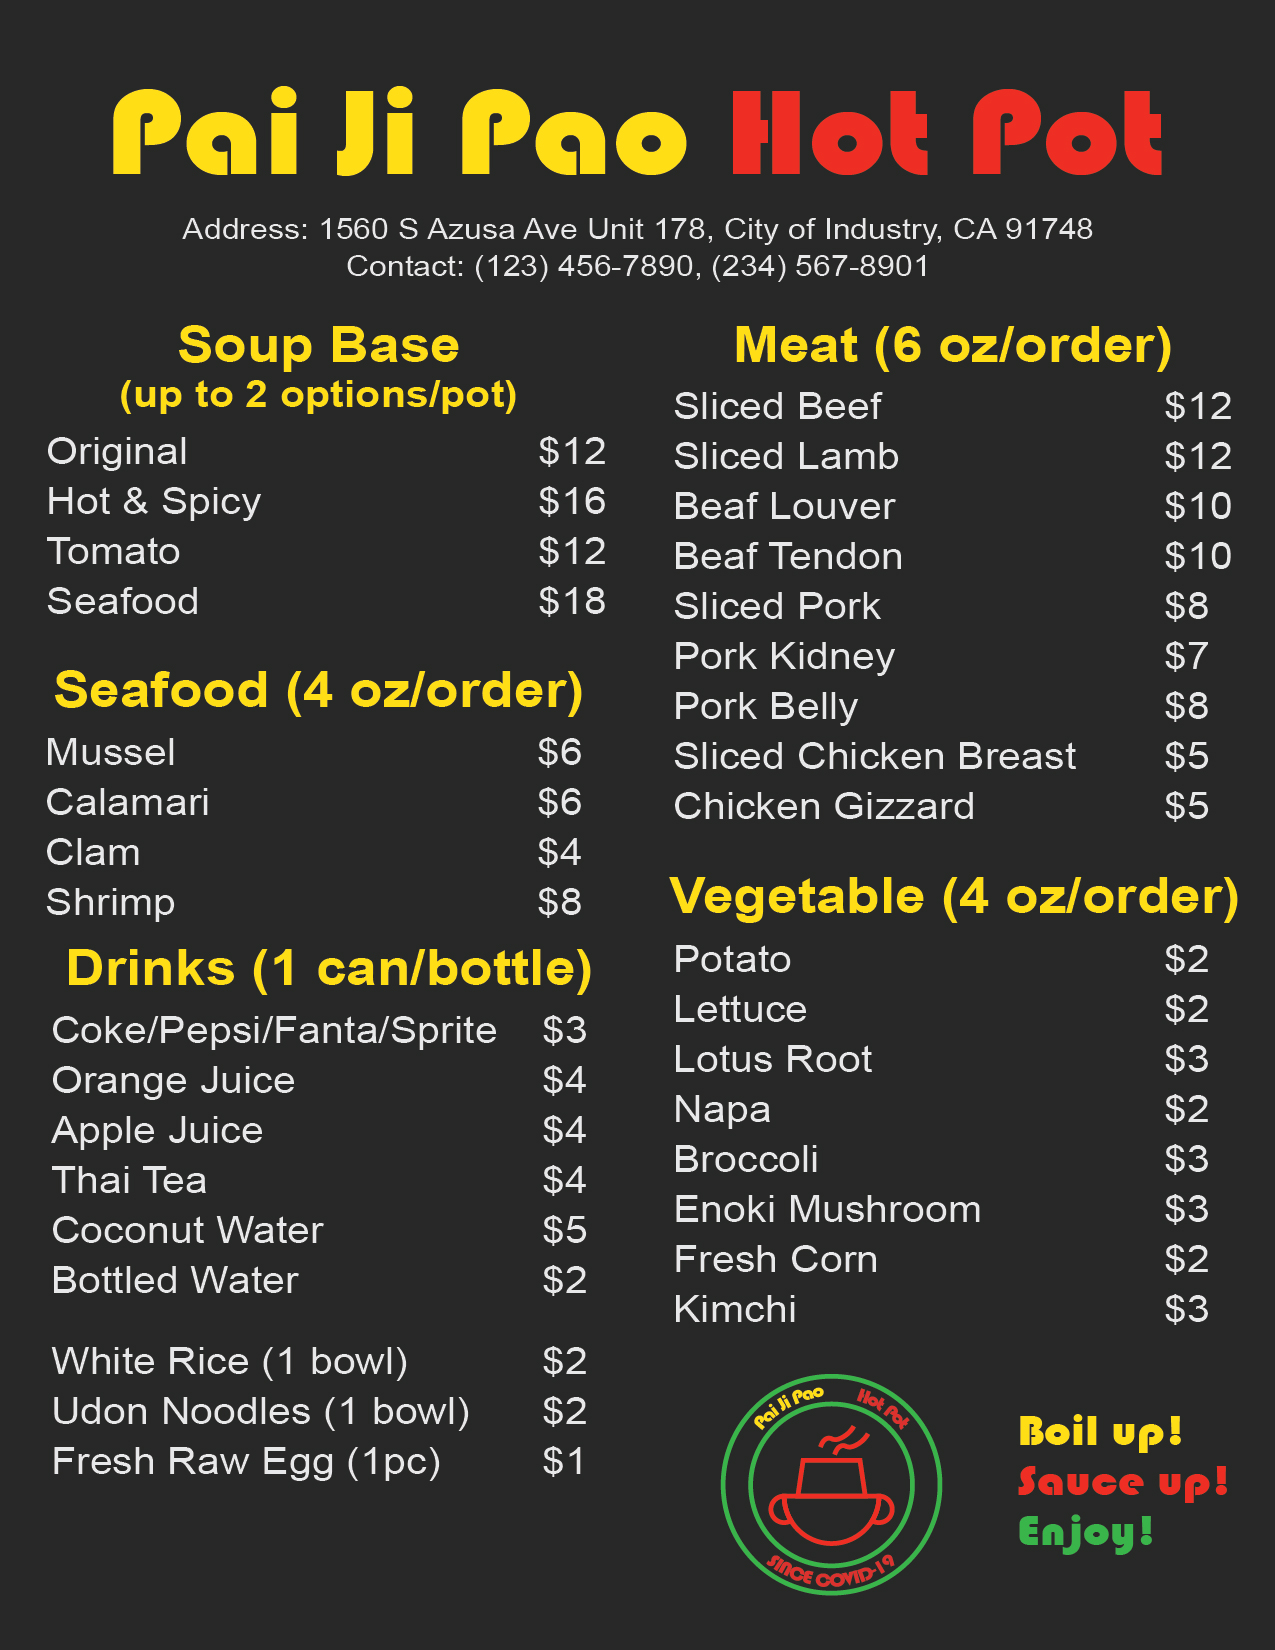
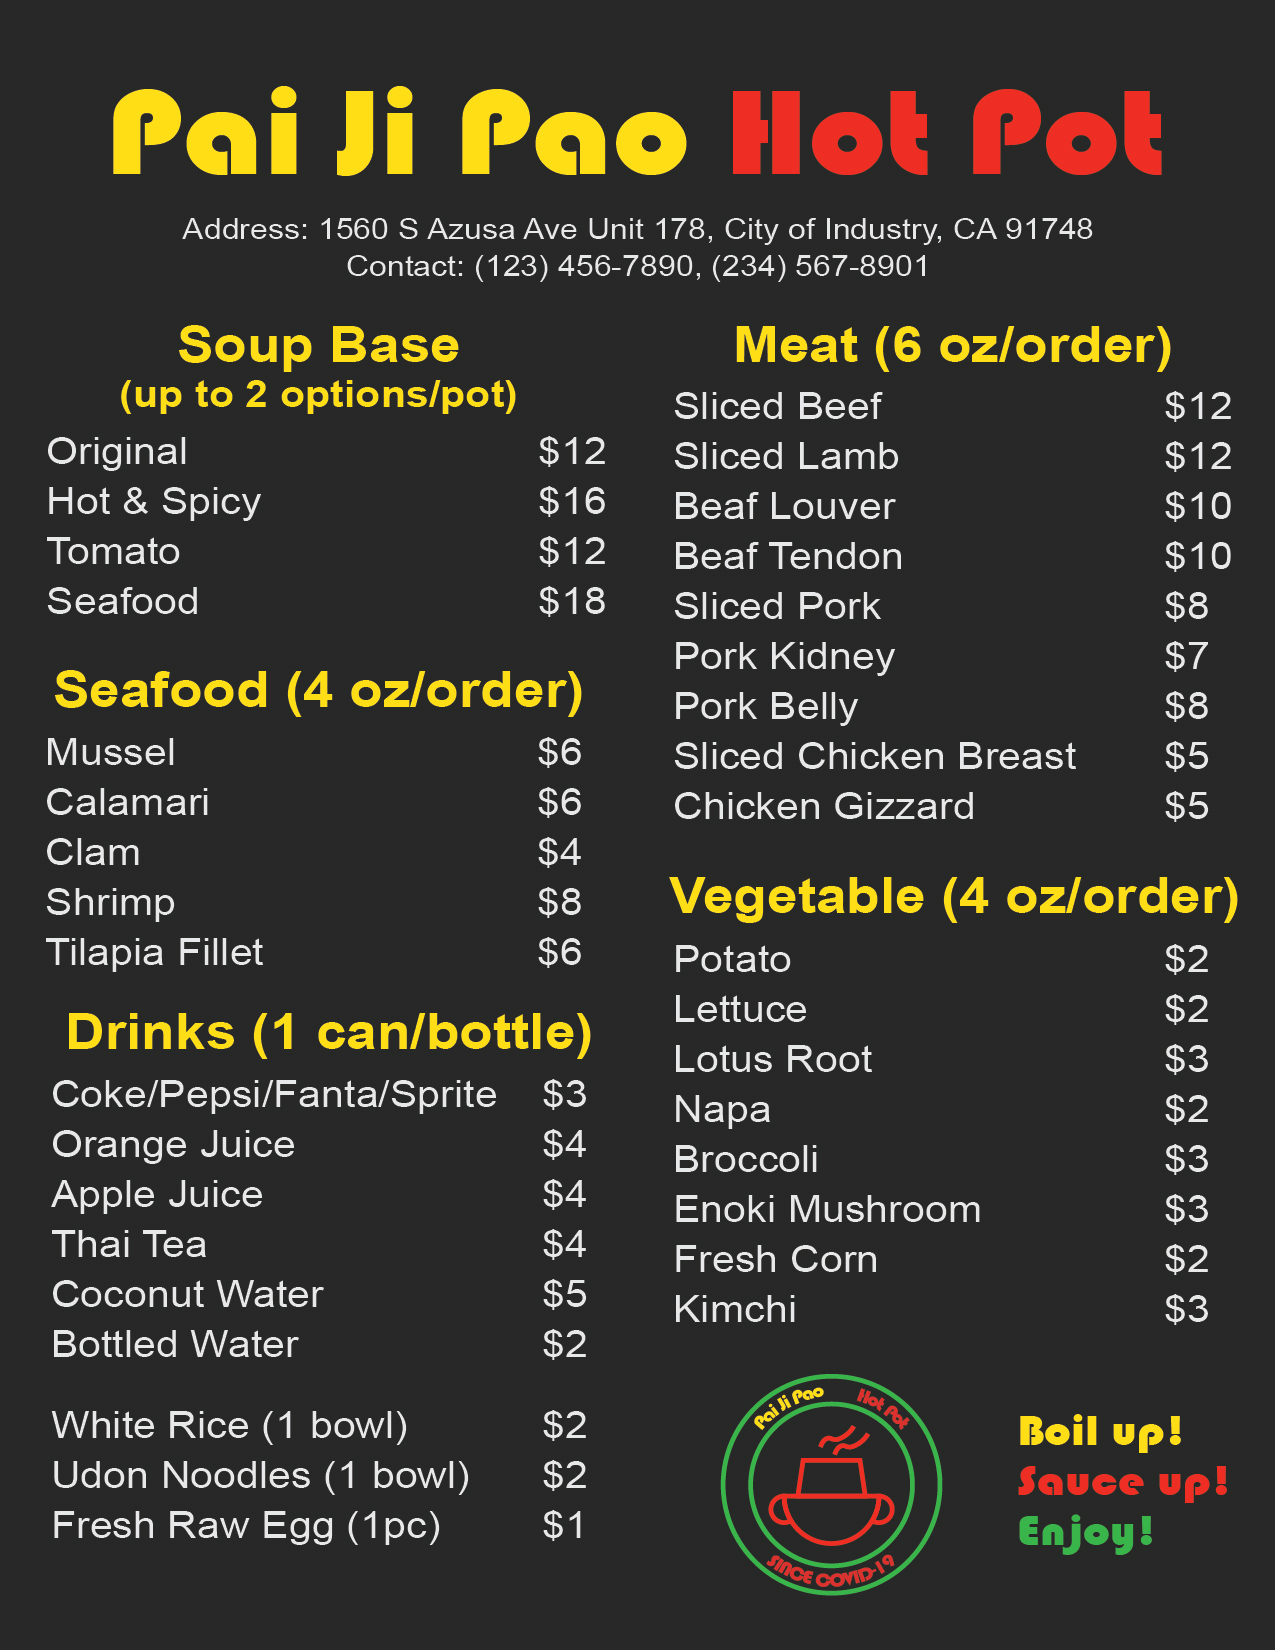
update menu.jpg, add beverage section in gallery and update seafood section

Changed region(s): [[0.0306, 0.5564, 0.4588, 0.9582]]

diff --git a/site/gallery.html b/site/gallery.html
@@ -39,139 +39,198 @@
     <!-- food gallery - meat -->
     <section>
       <div class="container text-center mb-5">
-          <div class="fs-3 fw-semibold my-2">
+          <div class="fs-3 fw-semibold my-2 meat">
             Meat
           </div>
         <div class="row g-4">
   
           <div class="col-4">
-            <figure class="figure mb-1">
+            <figure class="figure mb-0">
               <img src="../image/gallery/meat/sliced lamb.jpg" alt="sliced lamb" class="container rounded-circle">
             </figure>
-            <figcaption class="figure-caption fs-6 fw-semibold">
+            <figcaption class="figure-caption fs-5">
               Sliced Lamb
             </figcaption>
           </div>
   
           <div class="col-4">
-            <figure class="figure mb-1">
+            <figure class="figure mb-0">
               <img src="../image/gallery/meat/sliced beef.jpg" alt="sliced beef" class="container rounded-circle">
             </figure>
-            <figcaption class="figure-caption fs-6 fw-semibold">
+            <figcaption class="figure-caption fs-5">
               Sliced Beef
             </figcaption>     
           </div>
   
           <div class="col-4">
-            <figure class="figure mb-1">
+            <figure class="figure mb-0">
               <img src="../image/gallery/meat/beef louver.jpg" alt="beef louver" class="container rounded-circle">
             </figure>
-            <figcaption class="figure-caption fs-6 fw-semibold">
+            <figcaption class="figure-caption fs-5">
               Beef Louver
             </figcaption>             
           </div>
   
           <div class="col-4">
-            <figure class="figure mb-1">
+            <figure class="figure mb-0">
               <img src="../image/gallery/meat/beef tendon.jpg" alt="beef tendon" class="container rounded-circle">
             </figure>          
-            <figcaption class="figure-caption fs-6 fw-semibold">
+            <figcaption class="figure-caption fs-5">
               Beef Tendon
             </figcaption>   
           </div>
   
           <div class="col-4">
-            <figure class="figure mb-1">
+            <figure class="figure mb-0">
               <img src="../image/gallery/meat/sliced pork.jpg" alt="sliced pork" class="container rounded-circle">
             </figure>          
-            <figcaption class="figure-caption fs-6 fw-semibold">
+            <figcaption class="figure-caption fs-5">
               Sliced Pork
             </figcaption>   
           </div>
   
           <div class="col-4">
-            <figure class="figure mb-1">
+            <figure class="figure mb-0">
               <img src="../image/gallery/meat/pork kidney.jpg" alt="pork kidney" class="container rounded-circle">
             </figure>          
-            <figcaption class="figure-caption fs-6 fw-semibold">
+            <figcaption class="figure-caption fs-5">
               Pork Kidney
             </figcaption>   
           </div>
   
           <div class="col-4">
-            <figure class="figure mb-1">
+            <figure class="figure mb-0">
               <img src="../image/gallery/meat/pork belly.jpg" alt="pork belly" class="container rounded-circle">
             </figure>          
-            <figcaption class="figure-caption fs-6 fw-semibold">
+            <figcaption class="figure-caption fs-5">
               Pork Belly
             </figcaption>   
           </div>
   
           <div class="col-4">
-            <figure class="figure mb-1">
+            <figure class="figure mb-0">
               <img src="../image/gallery/meat/sliced chicken breast.jpg" alt="sliced chicken breast" class="container rounded-circle">
             </figure>          
-            <figcaption class="figure-caption fs-6 fw-semibold">
+            <figcaption class="figure-caption fs-5">
               Sliced Chicken Breast
             </figcaption>   
           </div>
   
           <div class="col-4">
-            <figure class="figure mb-1">
+            <figure class="figure mb-0">
               <img src="../image/gallery/meat/chicken gizzard.jpg" alt="chicken gizzard" class="container rounded-circle">
             </figure>          
-            <figcaption class="figure-caption fs-6 fw-semibold">
+            <figcaption class="figure-caption fs-5">
               Chicken Gizzard
             </figcaption>   
           </div>
         </div>
       </div>
+    </section>
 
-      <!-- food gallery - seafood -->
+    <!-- food gallery - seafood -->
+    <section>
       <div class="container text-center mb-5">
-        <div class="fs-3 fw-semibold my-2">
+        <div class="fs-3 fw-semibold my-2 seafood">
           Seafood
         </div>
-      <div class="row g-4">
+        <div class="row g-4">
 
-        <div class="col-4">
-          <figure class="figure mb-1">
-            <img src="../image/gallery/seafood/calamari.jpg" alt="calamari" class="container rounded-circle">
-          </figure>
-          <figcaption class="figure-caption fs-6 fw-semibold">
-            Calamari
-          </figcaption>
-        </div>
+          <div class="col-4">
+            <figure class="figure mb-0">
+              <img src="../image/gallery/seafood/calamari.jpg" alt="calamari" class="container rounded-circle">
+            </figure>
+            <figcaption class="figure-caption fs-5">
+              Calamari
+            </figcaption>
+          </div>
 
-        <div class="col-4">
-          <figure class="figure mb-1">
-            <img src="../image/gallery/seafood/clam.jpg" alt="clam" class="container rounded-circle">
-          </figure>
-          <figcaption class="figure-caption fs-6 fw-semibold">
-            Clam
-          </figcaption>     
-        </div>
+          <div class="col-4">
+            <figure class="figure mb-0">
+              <img src="../image/gallery/seafood/clam.jpg" alt="clam" class="container rounded-circle">
+            </figure>
+            <figcaption class="figure-caption fs-5">
+              Clam
+            </figcaption>     
+          </div>
 
-        <div class="col-4">
-          <figure class="figure mb-1">
-            <img src="../image/gallery/seafood/mussel.jpg" alt="mussel" class="container rounded-circle">
-          </figure>
-          <figcaption class="figure-caption fs-6 fw-semibold">
-            Mussel
-          </figcaption>             
-        </div>
+          <div class="col-4">
+            <figure class="figure mb-0">
+              <img src="../image/gallery/seafood/mussel.jpg" alt="mussel" class="container rounded-circle">
+            </figure>
+            <figcaption class="figure-caption fs-5">
+              Mussel
+            </figcaption>             
+          </div>
 
-        <div class="col-4">
-          <figure class="figure mb-1">
-            <img src="../image/gallery/seafood/shrimp.jpg" alt="shrimp" class="container rounded-circle">
-          </figure>          
-          <figcaption class="figure-caption fs-6 fw-semibold">
-            Shrimp
-          </figcaption>   
+          <div class="col-4">
+            <figure class="figure mb-0">
+              <img src="../image/gallery/seafood/shrimp.jpg" alt="shrimp" class="container rounded-circle">
+            </figure>          
+            <figcaption class="figure-caption fs-5">
+              Shrimp
+            </figcaption>   
+          </div>
+
+          <div class="col-4">
+            <figure class="figure mb-0">
+              <img src="../image/gallery/seafood/tilapia fillet.jpg" alt="tilapia fillet" class="container rounded-circle">
+            </figure>          
+            <figcaption class="figure-caption fs-5">
+              Tilapia Fillet
+            </figcaption>   
+          </div>
         </div>
       </div>
-    </div>
     </section>
+
+    <!-- food gallery - beverage -->
+    <section>
+      <div class="container text-center mb-5">
+        <div class="fs-3 fw-semibold my-2 beverage">
+          Beverage
+        </div>
+        <div class="row g-4">
+
+          <div class="col-4">
+            <figure class="figure mb-0">
+              <img src="../image/gallery/beverage/orange juice.jpg" alt="orange juice" class="container rounded-circle">
+            </figure>
+            <figcaption class="figure-caption fs-5">
+              Orange Juice
+            </figcaption>
+          </div>
+
+          <div class="col-4">
+            <figure class="figure mb-0">
+              <img src="../image/gallery/beverage/apple juice.jpg" alt="apple juice" class="container rounded-circle">
+            </figure>
+            <figcaption class="figure-caption fs-5">
+              Apple Juice
+            </figcaption>     
+          </div>
+
+          <div class="col-4">
+            <figure class="figure mb-0">
+              <img src="../image/gallery/beverage/thai tea.jpg" alt="thai tea" class="container rounded-circle">
+            </figure>
+            <figcaption class="figure-caption fs-5">
+              Thai Tea
+            </figcaption>             
+          </div>
+
+          <div class="col-4">
+            <figure class="figure mb-0">
+              <img src="../image/gallery/beverage/coconut water.jpg" alt="coconut water" class="container rounded-circle">
+            </figure>          
+            <figcaption class="figure-caption fs-5">
+              Coconut Water
+            </figcaption>   
+          </div>
+        </div>
+      </div>
+    </section>
+
     </main>
 
     <!-- footer -->

diff --git a/css/style.scss b/css/style.scss
@@ -2,6 +2,7 @@
 
 $header: rgb(40, 40, 40);
 $hotpot-red:  rgb(220, 60, 0);
+$hotpot-green:  rgb(57, 181, 74);
 
 body {
     background-image: url("../image/light-background.webp");
@@ -36,7 +37,12 @@ body {
         .menu-photo, .comment {
             text-align: center;
         }
-        
+        .meat, .seafood, .beverage {
+            color: $hotpot-red;
+        }
+        figcaption.figure-caption {
+            color: black;
+        }
     }
 
     footer {

diff --git a/css/style.css b/css/style.css
@@ -32,6 +32,12 @@ body nav .active-page {
 body section .menu-photo, body section .comment {
   text-align: center;
 }
+body section .meat, body section .seafood, body section .beverage {
+  color: rgb(220, 60, 0);
+}
+body section figcaption.figure-caption {
+  color: black;
+}
 body footer {
   background-color: rgb(220, 160, 0);
   height: 80px;
